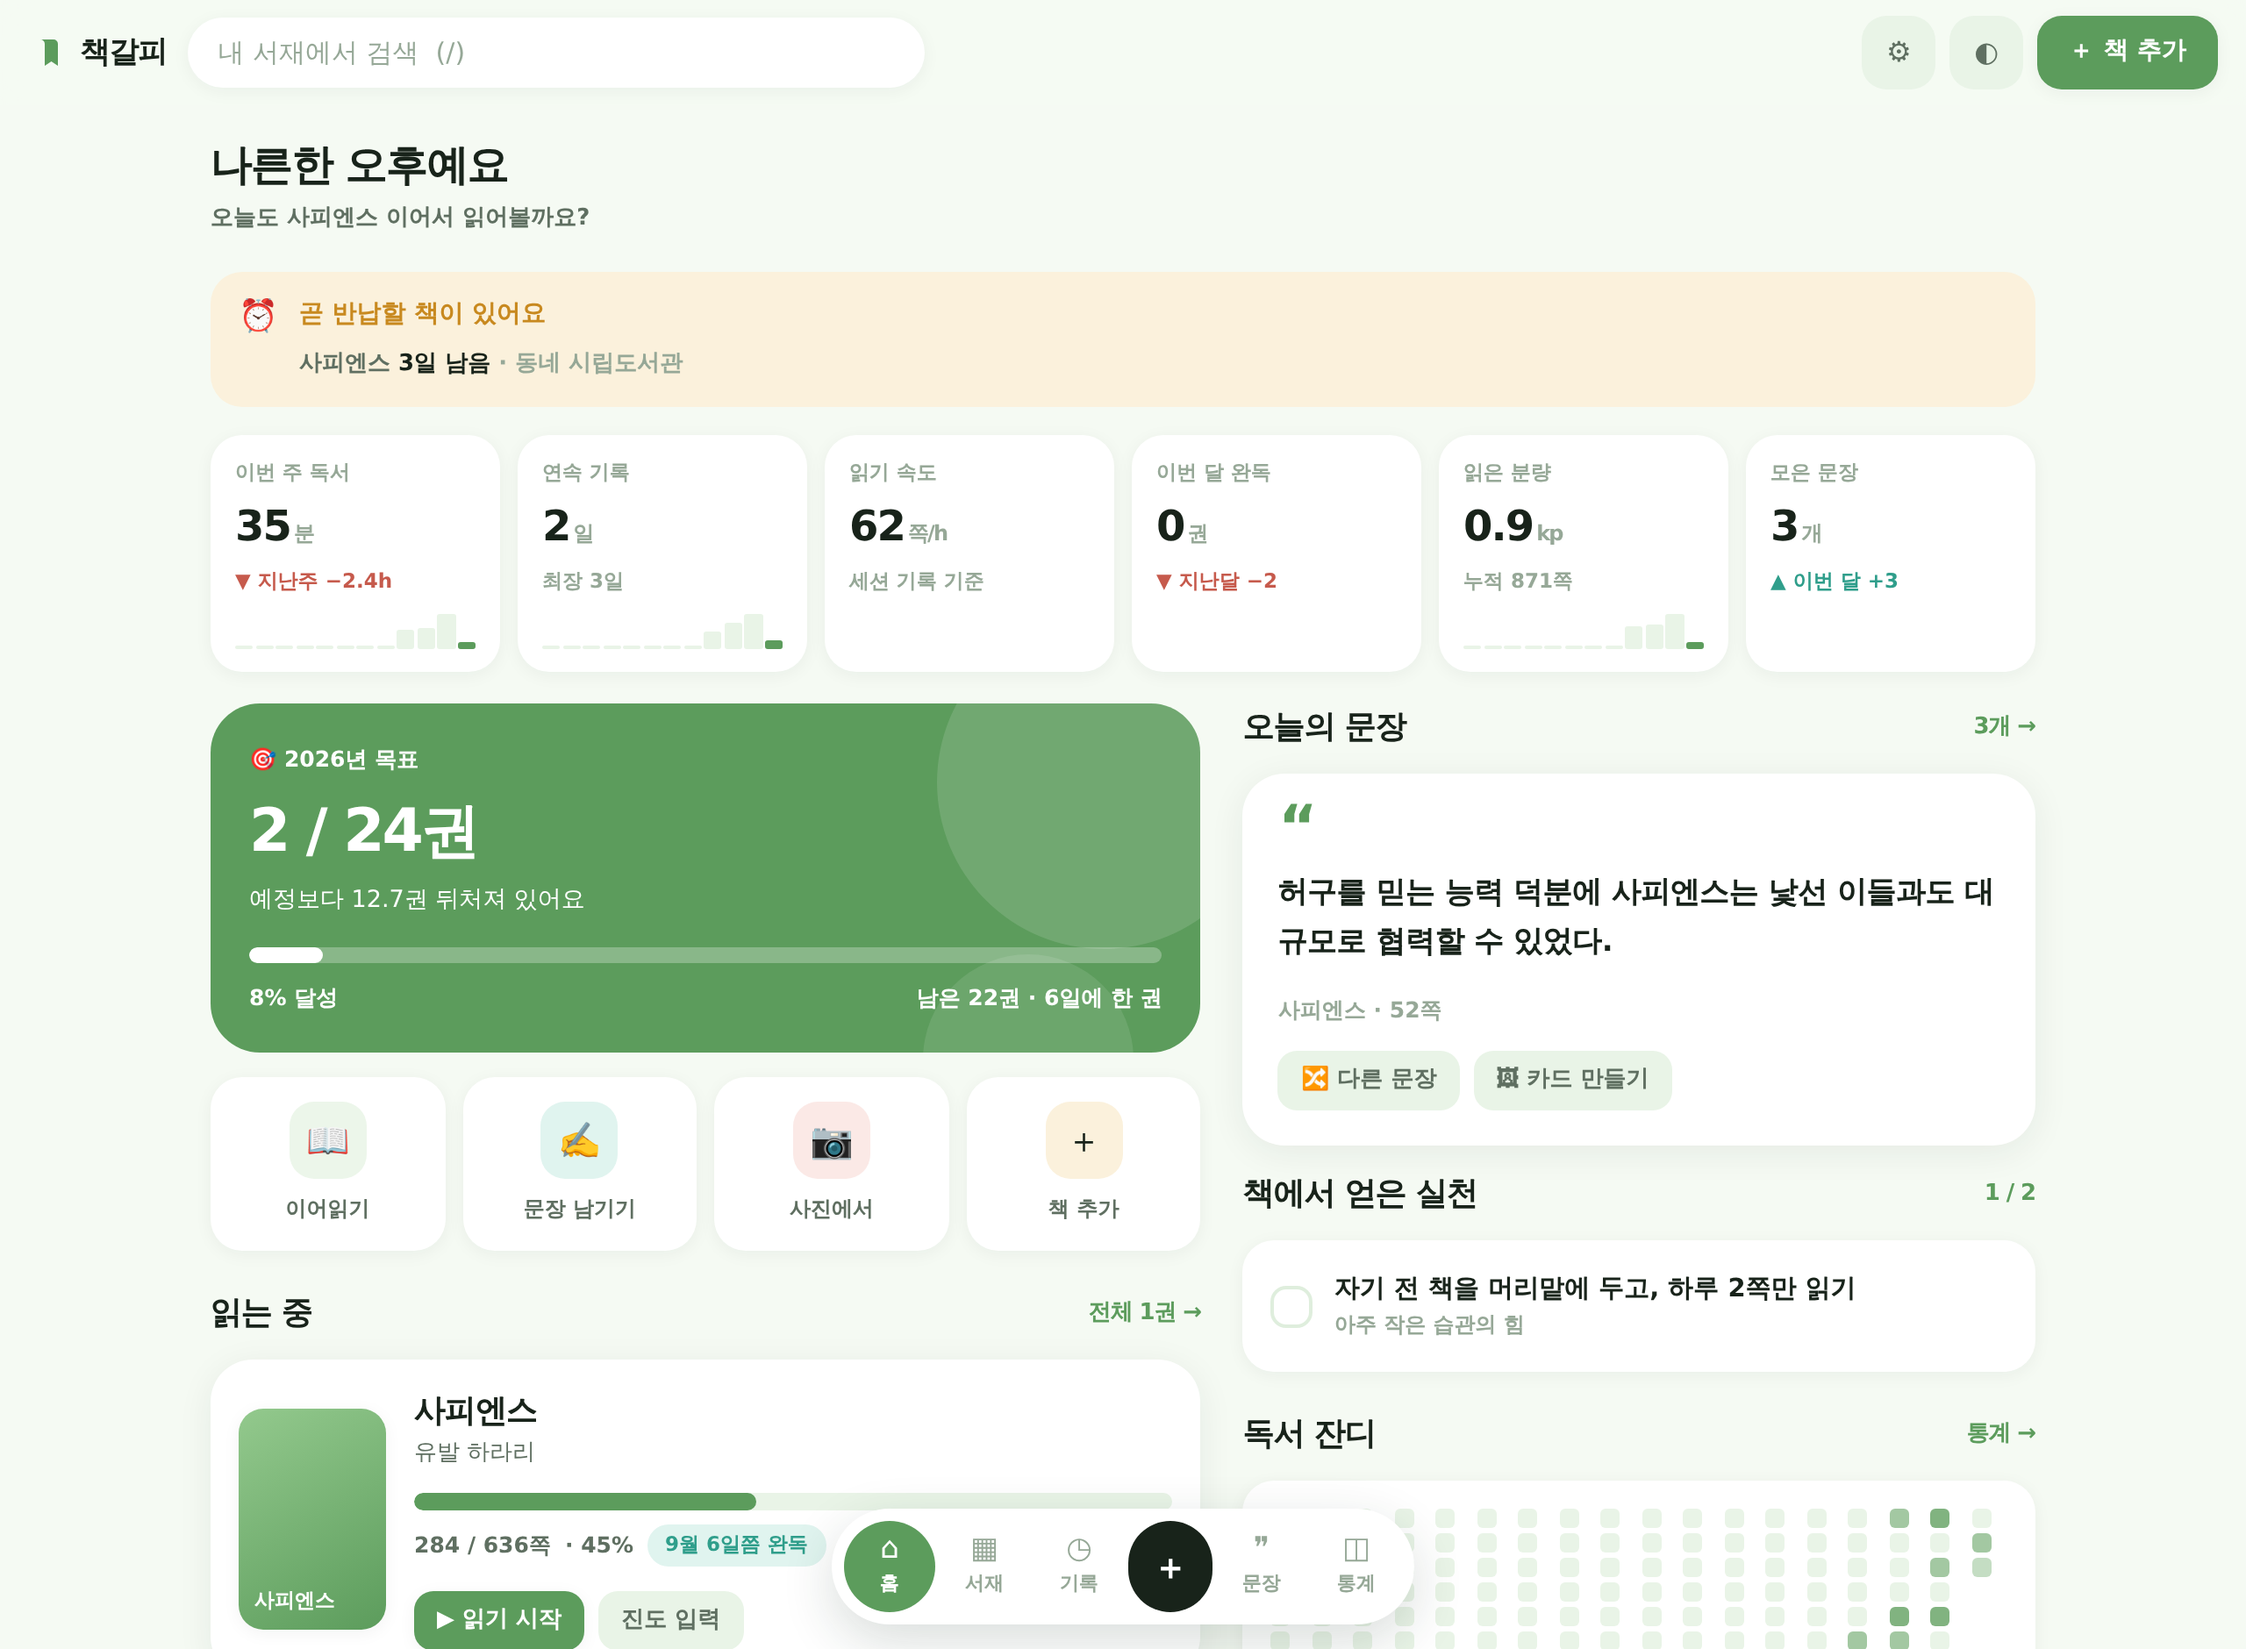
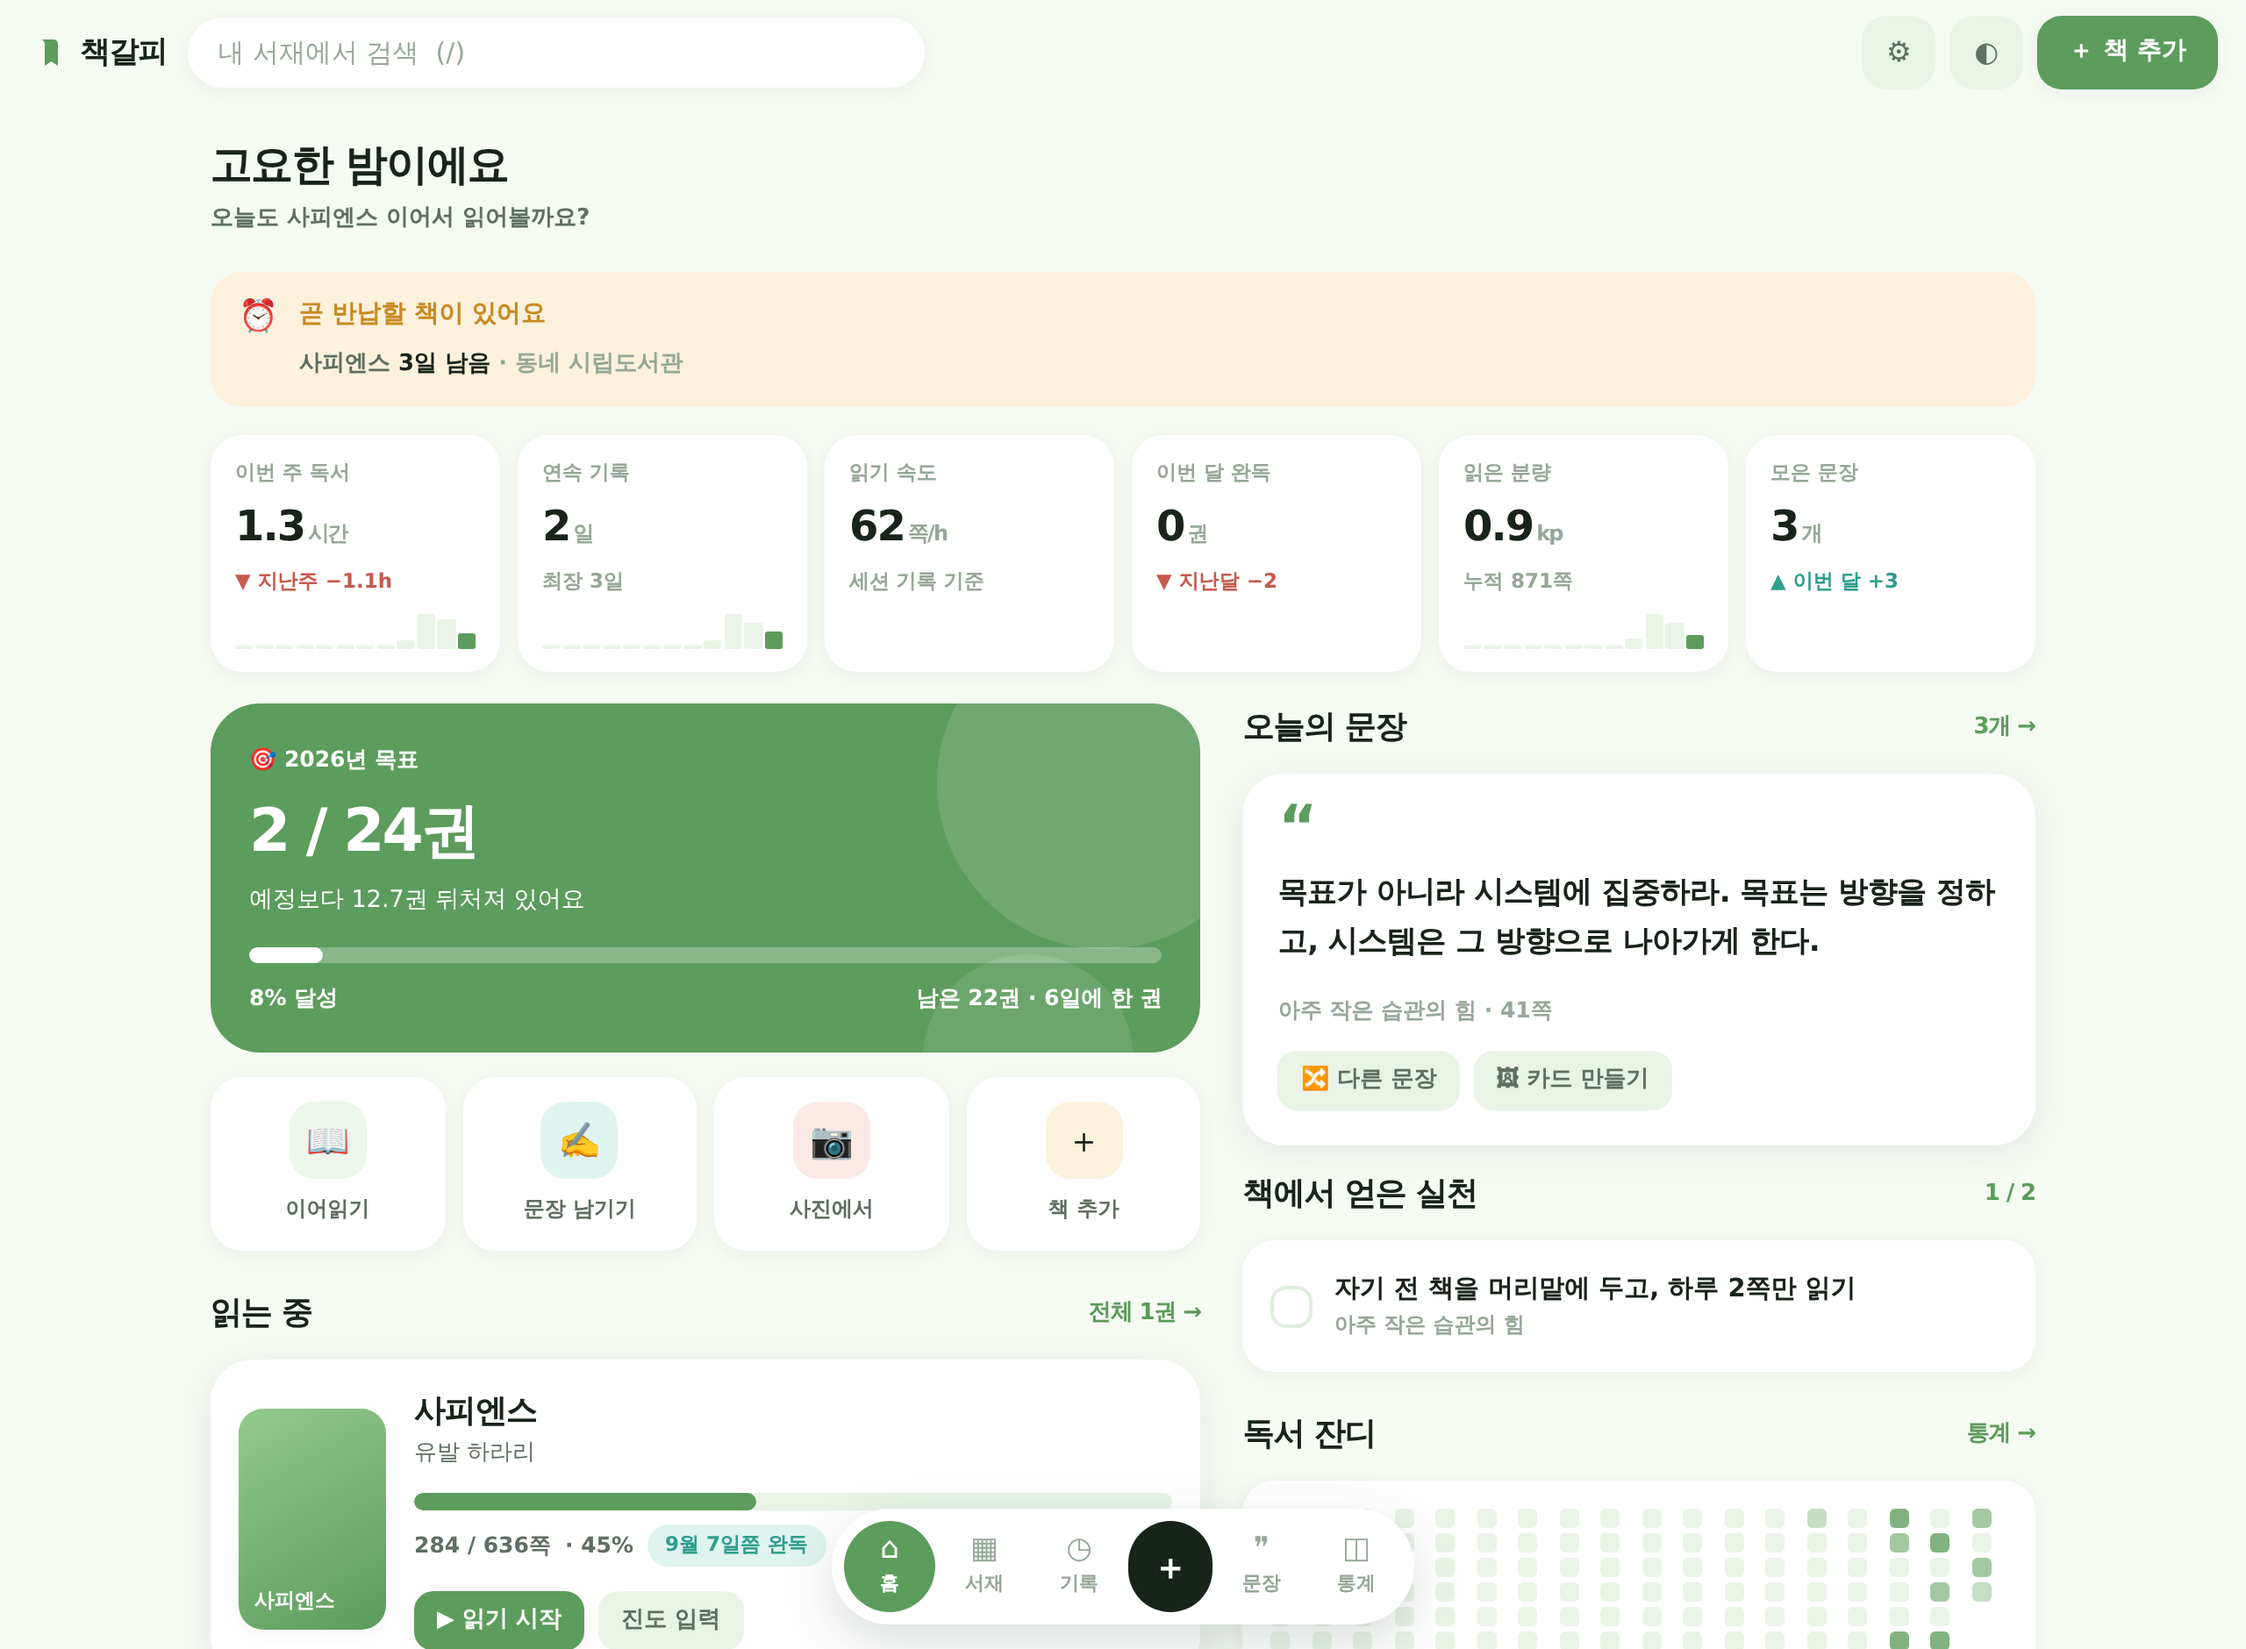
처음 연결할 때의 안내와, 기록이 사라진 것처럼 보이던 경로
**로그인 문구**
"이제 로그인해 주세요" 만 뜨니 무엇을 로그인하라는지 알 수 없었다.
Supabase 홈페이지 계정이 아니라 내 창고 안에서만 쓰는 계정이고,
지금은 그 계정을 처음 만드는 자리다. 그 사실을 화면에 적고,
버튼도 '계정 만들기 (처음이면 이쪽)' 를 먼저 세웠다.

**빈 서재로 보이던 경로**
다른 탭이 옛 버전의 저장소를 붙들고 있으면 갱신이 막히는데(blocked),
그때 조용히 localStorage 로 갈아타고 있었다. 기록은 IndexedDB 에
멀쩡히 있는데 엉뚱한 곳을 들여다보니 서재가 텅 빈 것처럼 보인다.
게다가 아무 말도 하지 않아 '기록이 날아갔다' 로 읽힌다.

이제 막히면 기다린다 — 저쪽 탭이 닫히는 순간 이어서 열린다 — 그리고
무슨 일인지 화면에 띄운다. 다른 탭이 더 새 버전을 열면 이쪽 연결을
놓아 주고 새로고침을 안내한다.

동기화를 처음 켜는 순서(기록을 쌓아 둔 뒤 연결)로도 시험을 붙였다.
연결·계정 생성·첫 동기화·새로고침 어느 지점에서도 기록은 그대로다.

118개 통과 (기존 112 + 첫 연결 5 + 저장소 2, keyguard 재작성).

Claude-Session: https://claude.ai/code/session_01Cp53XNTgAP4TSJ9zpSBQ1h

diff --git a/js/views/settings.js b/js/views/settings.js
@@ -201,7 +201,7 @@ export default function settingsView() {
         try {
           await sync.testConnection({ url, anonKey });
           await store.saveSyncState({ url: url.replace(/\/+$/, ''), anonKey });
-          toast('프로젝트에 연결됐어요. 이제 로그인해 주세요.');
+          toast('창고를 찾았어요. 이제 이 창고에서 쓸 계정을 만들면 됩니다.');
           renderSync();
         } catch (err) {
           btn.disabled = false;
@@ -214,19 +214,21 @@ export default function settingsView() {
     if (!st2.signedIn) {
       const host = s.url.replace(/^https?:\/\//, '');
       syncBox.innerHTML = `
-        <p class="tiny faint" style="margin-bottom:14px">창고: ${esc(host)}</p>
+        <p class="tiny muted" style="margin-bottom:14px">
+          <b>${esc(host)}</b> 창고를 쓸 <b>계정을 만드세요.</b>
+          Supabase 홈페이지 계정이 아니라, <b>내 창고 안에서만 쓰는 계정</b>이에요.
+          이메일과 비밀번호는 새로 정하시면 됩니다 (Supabase 로그인과 같아도 괜찮아요).
+          휴대폰에서는 <b>같은 이메일·비밀번호로 로그인</b>하면 이 기기의 기록이 그대로 따라갑니다.
+        </p>
         <div style="display:flex;flex-direction:column;gap:12px">
           ${fieldHTML('이메일', `<input class="input" id="syEmail" type="email" value="${esc(s.email)}" autocomplete="username">`)}
           ${fieldHTML('비밀번호', '<input class="input" id="syPw" type="password" autocomplete="current-password">')}
         </div>
         <div class="chips" style="margin-top:14px">
-          <button class="btn btn--primary btn--sm" id="syIn" type="button">로그인</button>
-          <button class="btn btn--sm" id="syUp" type="button">계정 만들기</button>
+          <button class="btn btn--primary btn--sm" id="syUp" type="button">계정 만들기 (처음이면 이쪽)</button>
+          <button class="btn btn--sm" id="syIn" type="button">로그인 (다른 기기에서 이미 만들었다면)</button>
           <button class="btn btn--sm btn--ghost" id="syForget" type="button">주소·키 다시 넣기</button>
         </div>
-        <p class="tiny faint" style="margin-top:10px">
-          이 계정은 내 Supabase 프로젝트에만 있는 계정이에요. 다른 기기에서도 같은 이메일로 로그인하면 기록이 합쳐집니다.
-        </p>
         <div id="syOut"></div>`;
 
       const go2 = async (mode, btn) => {

diff --git a/js/db.js b/js/db.js
@@ -11,6 +11,11 @@ const STORES  = ['books', 'notes', 'sessions', 'meta', 'images', 'graves'];
 let dbp = null;
 let fallback = false;
 
+/** 저장소에 문제가 생겼을 때 사람에게 알릴 통로 */
+let trouble = null;
+export function onTrouble(fn) { trouble = fn; }
+const warn = (msg) => { console.warn('[db]', msg); trouble?.(msg); };
+
 function openDB() {
   if (dbp) return dbp;
   dbp = new Promise((resolve, reject) => {
@@ -29,11 +34,26 @@ function openDB() {
         }
       }
     };
-    req.onsuccess = () => resolve(req.result);
+    req.onsuccess = () => {
+      // 다른 탭이 더 새 버전으로 열리면 이 연결을 놓아 줘야 그쪽이 갱신할 수 있다
+      req.result.onversionchange = () => {
+        req.result.close();
+        dbp = null;
+        warn('앱이 새 버전으로 바뀌었어요. 이 탭을 새로고침해 주세요.');
+      };
+      resolve(req.result);
+    };
     req.onerror = () => reject(req.error);
-    req.onblocked = () => reject(new Error('blocked'));
+    // 다른 탭이 옛 버전을 붙들고 있으면 갱신이 막힌다.
+    // 여기서 포기하고 localStorage 로 갈아타면 서재가 텅 빈 것처럼 보인다 —
+    // 기록은 IndexedDB 에 멀쩡히 있는데 엉뚱한 곳을 들여다보는 셈이다.
+    // 그래서 기다린다. 저쪽 탭이 닫히는 순간 onsuccess 로 이어진다.
+    req.onblocked = () => warn(
+      '이 앱이 열린 다른 탭이 있어 저장소를 준비하지 못하고 있어요. '
+      + '다른 탭을 닫으면 이어서 진행됩니다.',
+    );
   }).catch((e) => {
-    console.warn('[db] IndexedDB 사용 불가 → localStorage 폴백', e);
+    warn(`이 브라우저에서 IndexedDB 를 쓸 수 없어 임시 저장소로 넘어갑니다 (${e?.name || e}).`);
     fallback = true;
     return null;
   });

diff --git a/js/app.js b/js/app.js
@@ -2,6 +2,7 @@
 
 import { $, $$, on, debounce } from './util.js';
 import * as store from './store.js';
+import { onTrouble } from './db.js';
 import { applyTheme, nextMode, cacheTheme } from './theme.js';
 import { route, match, start, go, currentPathname, setCurrent } from './router.js';
 import { toast, modalOpen, hydrateImages } from './ui.js';
@@ -142,6 +143,16 @@ function wireChrome() {
 /* ---------- 시작 ---------- */
 (async function main() {
   wireChrome();
+
+  // 저장소가 준비되지 않으면 화면은 비어 보인다. 그걸 '기록이 사라졌다'로 오해하지 않도록 알린다.
+  onTrouble((msg) => {
+    toast(msg, 8000);
+    const v = $('#view');
+    if (v && !v.children.length) {
+      v.innerHTML = `<div class="empty"><strong>잠시만요</strong>${msg}</div>`;
+    }
+  });
+
   await store.load();
   applyTheme(store.settings().theme);
   cacheTheme(store.settings().theme);
